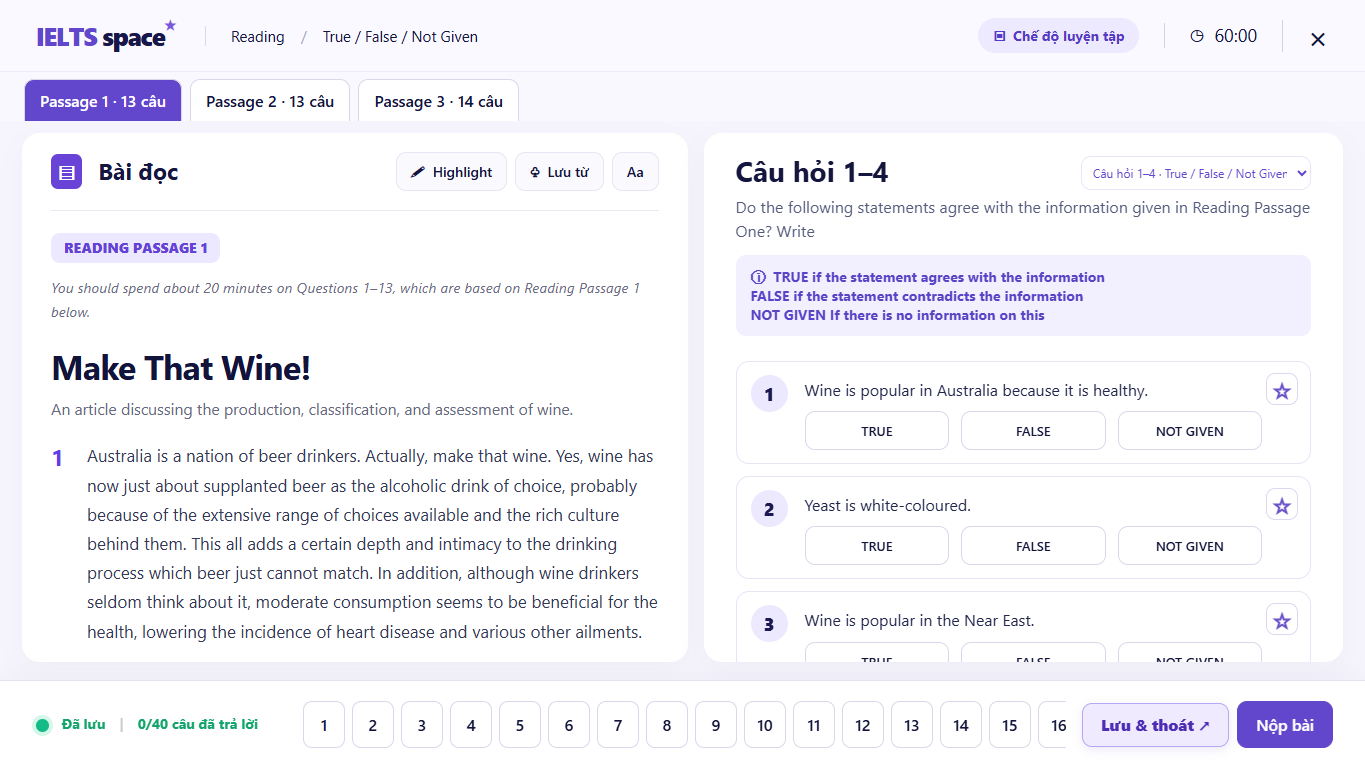
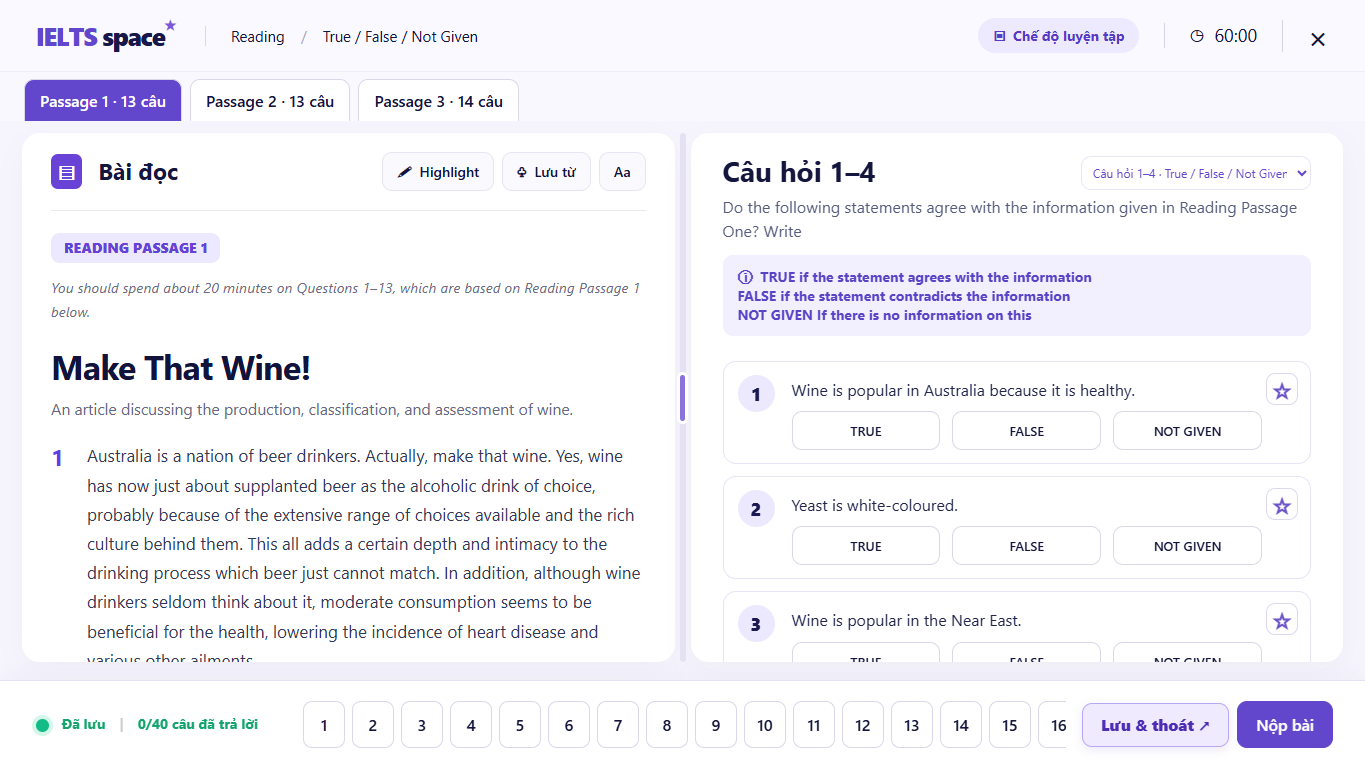
Add resizable reading preview panels

diff --git a/src/Preview.tsx b/src/Preview.tsx
@@ -11,12 +11,15 @@ type SubmitResult={answerKeys:AnswerKey[];grade:GradeResult};
 type PreviewData={passages:Passage[];keys?:AnswerKey[];title:string;timeLimitMinutes?:number;admin?:boolean;onSubmit?:(answers:Record<string,string>)=>Promise<SubmitResult>};
 export function ReadingPreview({passages,keys:initialKeys,title,timeLimitMinutes=60,admin=false,onSubmit}:PreviewData){
  const storageKey=`reading-attempt:${passages.map(p=>p.passageVersionId).join(':')}`;const readSaved=<T,>(field:string,fallback:T):T=>{try{return JSON.parse(sessionStorage.getItem(`${storageKey}:${field}`)||'null')??fallback}catch{return fallback}};
- const params=new URLSearchParams(location.search);const initialPassage=Math.min(passages.length-1,Math.max(0,Number(params.get('passage'))||0));const [keys,setKeys]=useState(initialKeys),[grade,setGrade]=useState<GradeResult|null>(null),[submitting,setSubmitting]=useState(false),[submitError,setSubmitError]=useState(''),[passageIndex,setPassageIndex]=useState(initialPassage),[groupByPassage,setGroupByPassage]=useState<Record<number,number>>({[initialPassage]:Math.max(0,Number(params.get('group'))||0)}),[answers,setAnswers]=useState<Record<string,string>>(()=>readSaved('answers',{})),[bookmarks,setBookmarks]=useState<Record<string,boolean>>(()=>readSaved('bookmarks',{})),[activeQuestion,setActiveQuestion]=useState(params.get('question')||''),[evidence,setEvidence]=useState(''),[evidenceQuote,setEvidenceQuote]=useState(''),[highlight,setHighlight]=useState<{blockId:string;quote:string}|null>(null),[hint,setHint]=useState(false),[textSize,setTextSize]=useState(17),[mobileTab,setMobileTab]=useState<'passage'|'questions'>('passage'),[minutes,setMinutes]=useState(0);
- const leftRef=useRef<HTMLDivElement>(null);const p=passages[passageIndex];const groupIndex=groupByPassage[passageIndex]??0;const g=p?.questionGroups[groupIndex];const key=keys?.[passageIndex];const allQs=passages.flatMap((v,pi)=>v.questionGroups.flatMap((x,gi)=>x.questions.map(q=>({q,pi,gi}))));
+ const params=new URLSearchParams(location.search);const initialPassage=Math.min(passages.length-1,Math.max(0,Number(params.get('passage'))||0));const [keys,setKeys]=useState(initialKeys),[grade,setGrade]=useState<GradeResult|null>(null),[submitting,setSubmitting]=useState(false),[submitError,setSubmitError]=useState(''),[passageIndex,setPassageIndex]=useState(initialPassage),[groupByPassage,setGroupByPassage]=useState<Record<number,number>>({[initialPassage]:Math.max(0,Number(params.get('group'))||0)}),[answers,setAnswers]=useState<Record<string,string>>(()=>readSaved('answers',{})),[bookmarks,setBookmarks]=useState<Record<string,boolean>>(()=>readSaved('bookmarks',{})),[activeQuestion,setActiveQuestion]=useState(params.get('question')||''),[evidence,setEvidence]=useState(''),[evidenceQuote,setEvidenceQuote]=useState(''),[highlight,setHighlight]=useState<{blockId:string;quote:string}|null>(null),[hint,setHint]=useState(false),[textSize,setTextSize]=useState(17),[mobileTab,setMobileTab]=useState<'passage'|'questions'>('passage'),[minutes,setMinutes]=useState(0),[split,setSplit]=useState(()=>{try{return Math.min(72,Math.max(28,Number(localStorage.getItem('reading-preview-split'))||50))}catch{return 50}}),[resizing,setResizing]=useState(false);
+ const leftRef=useRef<HTMLDivElement>(null),mainRef=useRef<HTMLElement>(null),splitRef=useRef(split);const p=passages[passageIndex];const groupIndex=groupByPassage[passageIndex]??0;const g=p?.questionGroups[groupIndex];const key=keys?.[passageIndex];const allQs=passages.flatMap((v,pi)=>v.questionGroups.flatMap((x,gi)=>x.questions.map(q=>({q,pi,gi}))));
  useEffect(()=>{const t=setInterval(()=>setMinutes(x=>x+1),60000);return()=>clearInterval(t)},[]);
  useEffect(()=>{sessionStorage.setItem(`${storageKey}:answers`,JSON.stringify(answers));sessionStorage.setItem(`${storageKey}:bookmarks`,JSON.stringify(bookmarks))},[answers,bookmarks,storageKey]);
  useEffect(()=>{if(activeQuestion)document.querySelector(`[data-question="${activeQuestion}"]`)?.scrollIntoView({block:'center',behavior:'smooth'})},[activeQuestion,groupIndex,passageIndex]);
  const selectQuestion=(id:string)=>{const match=allQs.find(x=>x.q.id===id);if(!match)return;setPassageIndex(match.pi);setGroupByPassage(v=>({...v,[match.pi]:match.gi}));setActiveQuestion(id);setMobileTab('questions')};
+ const setSplitValue=(value:number)=>{const next=Math.min(72,Math.max(28,value));splitRef.current=next;setSplit(next)};
+ const resizeTo=(clientX:number)=>{const rect=mainRef.current?.getBoundingClientRect();if(!rect)return;const innerLeft=rect.left+22,innerWidth=Math.max(1,rect.width-60);setSplitValue(((clientX-innerLeft)/innerWidth)*100)};
+ const finishResize=()=>{setResizing(false);try{localStorage.setItem('reading-preview-split',String(splitRef.current))}catch{}};
  const showEvidence=(id:string)=>{const answer=key?.answers.find(a=>a.questionId===id),e=answer?.evidence[0];if(!e)return;setEvidence(e.blockId);setEvidenceQuote(plainReadingText(e.quote));setMobileTab('passage');setTimeout(()=>leftRef.current?.querySelector(`[data-block="${e.blockId}"]`)?.scrollIntoView({block:'center',behavior:'smooth'}),60)};
 
  const highlightSelection=()=>{const selection=window.getSelection();const quote=selection?.toString().trim();const node=selection?.anchorNode;const block=(node?.nodeType===Node.ELEMENT_NODE?node as Element:node?.parentElement)?.closest('[data-block]');if(!quote||!block||!leftRef.current?.contains(block)){setHint(true);return}const blockId=block.getAttribute('data-block')||'';const text=plainReadingText(p.sections.flatMap(s=>s.blocks).find(b=>b.id===blockId)?.text||'');if(!text.includes(quote)){setHint(true);return}setHighlight({blockId,quote});selection?.removeAllRanges()};
@@ -28,7 +31,8 @@ export function ReadingPreview({passages,keys:initialKeys,title,timeLimitMinutes
  return <div className="preview-shell"><header className="preview-header"><div className="brand">IELTS <strong>space</strong><sup>★</sup></div><div className="breadcrumb">Reading <span>/</span> {questionTypeRegistry[g.type].label}</div><div className="header-right"><span className="practice-pill">▣ &nbsp;Chế độ luyện tập</span><span className="timer">◷ &nbsp;{String(Math.max(0,timeLimitMinutes-minutes)).padStart(2,'0')}:00</span><Link className="close" to={admin?'/admin/reading':'/reading/passages'}>×</Link></div></header>
  {passages.length>1&&<nav className="passage-tabs">{passages.map((x,i)=><button key={x.passageVersionId} className={i===passageIndex?'active':''} onClick={()=>{setPassageIndex(i);setMobileTab('passage')}}>Passage {i+1} · {x.questionGroups.flatMap(g=>g.questions).length} câu</button>)}</nav>}
  <div className="mobile-tabs"><button className={mobileTab==='passage'?'active':''} onClick={()=>setMobileTab('passage')}>Bài đọc</button><button className={mobileTab==='questions'?'active':''} onClick={()=>setMobileTab('questions')}>Câu hỏi</button></div>
- <main className={`preview-main mobile-${mobileTab}`}><section className="passage-panel" ref={leftRef}><div className="panel-toolbar"><h2><span className="purple-icon">▤</span> Bài đọc</h2><div><button onClick={highlightSelection}>🖉 &nbsp;Highlight</button><button onClick={()=>setHint(true)}>♧ &nbsp;Lưu từ</button><button onClick={()=>setTextSize(x=>x>=21?16:x+1)}>Aa</button></div></div><div className="passage-body" style={{fontSize:textSize}}><span className="passage-label">{p.label||`READING PASSAGE ${passageIndex+1}`}</span>{p.leadIn&&<p className="lead-in"><RichText text={p.leadIn}/></p>}<h1><RichText text={p.title}/></h1>{p.description&&<p className="passage-description"><RichText text={p.description}/></p>}{p.sections.map(s=><div className="passage-section" key={s.id}><strong>{s.label}</strong><div>{s.blocks.map(b=><p className={evidence===b.id?'evidence-block':''} data-block={b.id} key={b.id}><RichText text={b.text} highlight={evidence===b.id?evidenceQuote:highlight?.blockId===b.id?highlight.quote:''}/></p>)}</div></div>)}</div></section>
+ <main ref={mainRef} className={`preview-main has-resizer mobile-${mobileTab}`} style={{gridTemplateColumns:`minmax(0,${split}fr) 16px minmax(0,${100-split}fr)`}}><section className="passage-panel" ref={leftRef}><div className="panel-toolbar"><h2><span className="purple-icon">▤</span> Bài đọc</h2><div><button onClick={highlightSelection}>🖉 &nbsp;Highlight</button><button onClick={()=>setHint(true)}>♧ &nbsp;Lưu từ</button><button onClick={()=>setTextSize(x=>x>=21?16:x+1)}>Aa</button></div></div><div className="passage-body" style={{fontSize:textSize}}><span className="passage-label">{p.label||`READING PASSAGE ${passageIndex+1}`}</span>{p.leadIn&&<p className="lead-in"><RichText text={p.leadIn}/></p>}<h1><RichText text={p.title}/></h1>{p.description&&<p className="passage-description"><RichText text={p.description}/></p>}{p.sections.map(s=><div className="passage-section" key={s.id}><strong>{s.label}</strong><div>{s.blocks.map(b=><p className={evidence===b.id?'evidence-block':''} data-block={b.id} key={b.id}><RichText text={b.text} highlight={evidence===b.id?evidenceQuote:highlight?.blockId===b.id?highlight.quote:''}/></p>)}</div></div>)}</div></section>
+ <div className={`preview-resizer ${resizing?'dragging':''}`} role="separator" aria-label="Thay đổi độ rộng bài đọc và câu hỏi" aria-orientation="vertical" aria-valuemin={28} aria-valuemax={72} aria-valuenow={Math.round(split)} tabIndex={0} onDoubleClick={()=>{setSplitValue(50);localStorage.setItem('reading-preview-split','50')}} onPointerDown={e=>{setResizing(true);e.currentTarget.setPointerCapture(e.pointerId);resizeTo(e.clientX)}} onPointerMove={e=>{if(resizing)resizeTo(e.clientX)}} onPointerUp={finishResize} onPointerCancel={finishResize} onKeyDown={e=>{if(!['ArrowLeft','ArrowRight','Home','End'].includes(e.key))return;e.preventDefault();const next=e.key==='Home'?28:e.key==='End'?72:splitRef.current+(e.key==='ArrowLeft'?-1:1)*(e.shiftKey?5:2);setSplitValue(next);try{localStorage.setItem('reading-preview-split',String(splitRef.current))}catch{}}}><span/></div>
  <section className="question-panel"><div className="question-scroll"><div className="question-panel-head"><div className="group-switch"><h2>{heading(g)}</h2><select aria-label="Chọn nhóm" value={groupIndex} onChange={e=>setGroupByPassage(x=>({...x,[passageIndex]:Number(e.target.value)}))}>{p.questionGroups.map((x,i)=><option key={x.id} value={i}>{heading(x)} · {questionTypeRegistry[x.type].label}</option>)}</select></div>{g.instructionBlocks.filter(b=>b.kind==='instruction').map((b,i)=><p key={i} className="instruction"><RichText text={b.text}/></p>)}{g.instructionBlocks.filter(b=>b.kind==='answer_format').map((b,i)=><div className="info-strip" key={i}>ⓘ &nbsp;<RichText text={b.text}/></div>)}{g.instructionBlocks.filter(b=>b.kind==='note').map((b,i)=><div className="note-strip" key={i}><RichText text={b.text}/></div>)}{grade&&<div className="grade-banner"><strong>Kết quả: {grade.correct}/{grade.total} đúng</strong><span>{grade.incorrect} sai · {grade.unanswered} chưa trả lời</span></div>}{submitError&&<div className="error-banner">{submitError}</div>}</div><Renderer group={g} sections={p.sections.map(s=>({id:s.id,label:s.label}))} answers={answers} onAnswer={(id,value)=>setAnswers(x=>({...x,[id]:value}))} bookmarks={bookmarks} onToggleBookmark={id=>setBookmarks(x=>({...x,[id]:!x[id]}))} focusId={activeQuestion}/>{grade&&key&&<div className="review-list"><h3>Lời giải sau khi nộp</h3>{g.questions.map(q=>{const a=key.answers.find(x=>x.questionId===q.id);return <details key={q.id}><summary>Câu {q.number} · {resultById.get(q.id)?.status==='correct'?'Đúng':resultById.get(q.id)?.status==='incorrect'?'Sai':'Chưa trả lời'}</summary><p><b>Đáp án:</b> {a?.acceptedAnswers.join(', ')}</p><p>{a?.explanation}</p>{a?.evidence.length?<button onClick={()=>showEvidence(q.id)}>Xem vị trí ↗</button>:<span>Không có bằng chứng trực tiếp</span>}</details>})}</div>}</div></section></main>
  <footer className="preview-footer"><div className="save-info"><span className="green-dot"/> Đã lưu <span className="separator">|</span> {grade?`${grade.correct}/${grade.total} câu đúng`:`${answered}/${allQs.length} câu đã trả lời`}</div><div className="question-palette">{allQs.map(({q,pi})=><button key={q.id} className={`${answers[q.id]?'answered':''} ${activeQuestion===q.id?'current':''} ${resultById.get(q.id)?.status||''}`} onClick={()=>selectQuestion(q.id)} title={`Passage ${pi+1}, câu ${q.number}`}>{q.number}{bookmarks[q.id]&&<span className="bookmark-mark">★</span>}</button>)}</div><div className="footer-actions"><Link className="exit-btn" to={admin?'/admin/reading':'/reading/passages'}>Lưu & thoát ↗</Link><button className="submit-btn" disabled={submitting} onClick={submit}>{submitting?'Đang chấm…':grade?'Chấm lại':'Nộp bài'}</button></div></footer>{hint&&<aside className="hint-popover">Chọn một đoạn văn để Highlight. Câu trả lời và câu đã lưu chỉ nằm trong tab trình duyệt. <button onClick={()=>setHint(false)}>Đóng</button></aside>}</div>;
 }

diff --git a/src/style.css b/src/style.css
@@ -68,3 +68,12 @@
 .review-list summary{list-style-position:inside}
 
 .issue-link{display:flex;align-items:center;justify-content:space-between;gap:14px;text-decoration:none;font-weight:650}.issue-link small{white-space:nowrap;color:#6f3dc4}.issue-link:hover{background:#ffe7eb;border-color:#f39aa8}.validation-focus{animation:validationPulse 1.8s ease-out;box-shadow:0 0 0 4px #8b6cff55!important}@keyframes validationPulse{0%,45%{background:#fff3c9}100%{background:#fff}}
+
+/* Resizable desktop split view. */
+.preview-main.has-resizer{gap:0}
+.preview-resizer{position:relative;display:grid;place-items:center;cursor:col-resize;touch-action:none;user-select:none;outline:none}
+.preview-resizer::before{content:"";position:absolute;inset:0 5px;border-radius:999px;background:#e5e1f3;transition:background .15s,box-shadow .15s}
+.preview-resizer span{position:relative;z-index:1;width:5px;height:46px;border-radius:999px;background:#8a72db;box-shadow:0 0 0 3px #fff}
+.preview-resizer:hover::before,.preview-resizer:focus-visible::before,.preview-resizer.dragging::before{background:#cfc5f5;box-shadow:0 0 0 2px #9178e6}
+.preview-resizer:focus-visible span{background:#5435c4}
+@media(max-width:760px){.preview-resizer{display:none}.preview-main.has-resizer{display:block}}

diff --git a/docs/reading-ui/IMPLEMENTATION_STATUS.md b/docs/reading-ui/IMPLEMENTATION_STATUS.md
@@ -30,6 +30,7 @@
 
 - Góp ý mới về màn làm bài đã được áp dụng: hướng dẫn nhóm cuộn cùng câu hỏi; đánh dấu tại từng câu; footer bỏ Gợi ý/Xem lời giải/Lưu câu và làm nổi bật Lưu & thoát. Lời giải chỉ hiện sau Nộp bài. Ảnh kiểm tra mới: `screenshots/preview-feedback-desktop.png` và `screenshots/preview-feedback-eight-questions.png`.
 - Footer full test căn bảng số câu từ đầu thay vì căn giữa một dải rộng hơn viewport, nên câu 1–9 không còn bị cắt khỏi mép trái. Thanh cuộn ngang vẫn cho phép tới câu 40; regression test và ảnh kiểm tra: `tests/full-test-palette.mjs`, `screenshots/full-test-palette-1-40.png`.
+- Hai panel desktop dùng thanh chia kéo ngang: tỷ lệ passage/câu hỏi nằm trong 28–72%, lưu trong `localStorage`, hỗ trợ phím mũi tên và nhấp đúp để về 50/50. Mobile vẫn dùng hai tab riêng. Ảnh sau khi thu passage: `screenshots/full-test-resizable-panels.png`.
 - Editor có B/I/A+ cho văn bản passage, hướng dẫn nhóm và prompt; preview giữ dòng NB/Instruction/Answer format đã nhập. Ảnh kiểm tra: `screenshots/reading-format-toolbar.png` và `screenshots/reading-rich-text-and-nb.png`. Đây là thay đổi theo góp ý của người dùng, chưa có ảnh chốt riêng cho thanh định dạng.
 - Diagram Completion có vùng đặt ô và điểm nối trực tiếp trên ảnh: chọn ô, bấm, kéo hoặc dùng phím mũi tên; tọa độ ô đồng bộ với các ô số, đường nối tự cập nhật theo cả hai đầu. Ảnh kiểm tra `screenshots/diagram-drag-editor.png`; thao tác đã kiểm tra trên đề draft mẫu mà không ghi thay đổi thử nghiệm vào database.
 - Diagram Completion còn có cách đặt ô trả lời bên dưới ảnh đã in sẵn số/đường dẫn. Bản nháp Falkirk Wheel dùng ảnh người dùng cung cấp với câu 20–26; `tests/diagram-below.mjs` kiểm tra Preview và chuyển cách trong editor. Ảnh `screenshots/diagram-falkirk-below-preview.png`. Passage và đáp án gốc chưa được cung cấp, nên bản nháp này không đủ điều kiện xuất bản.
